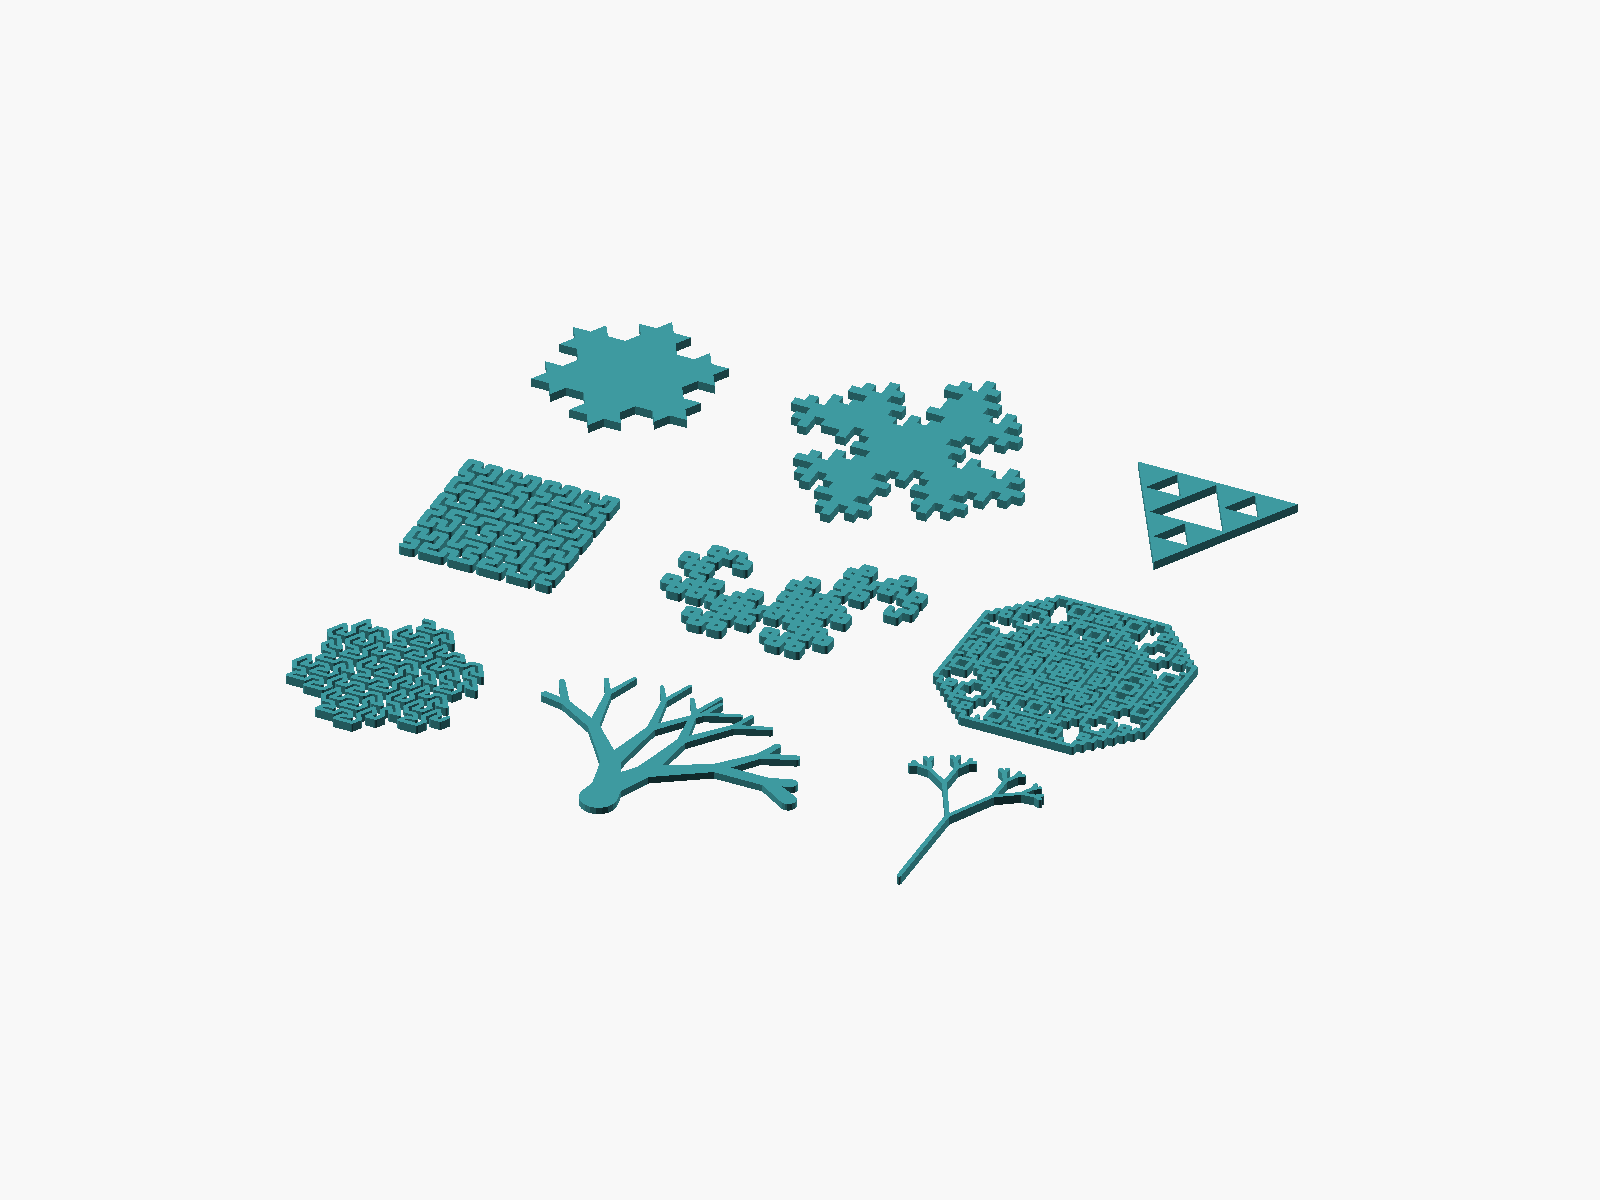
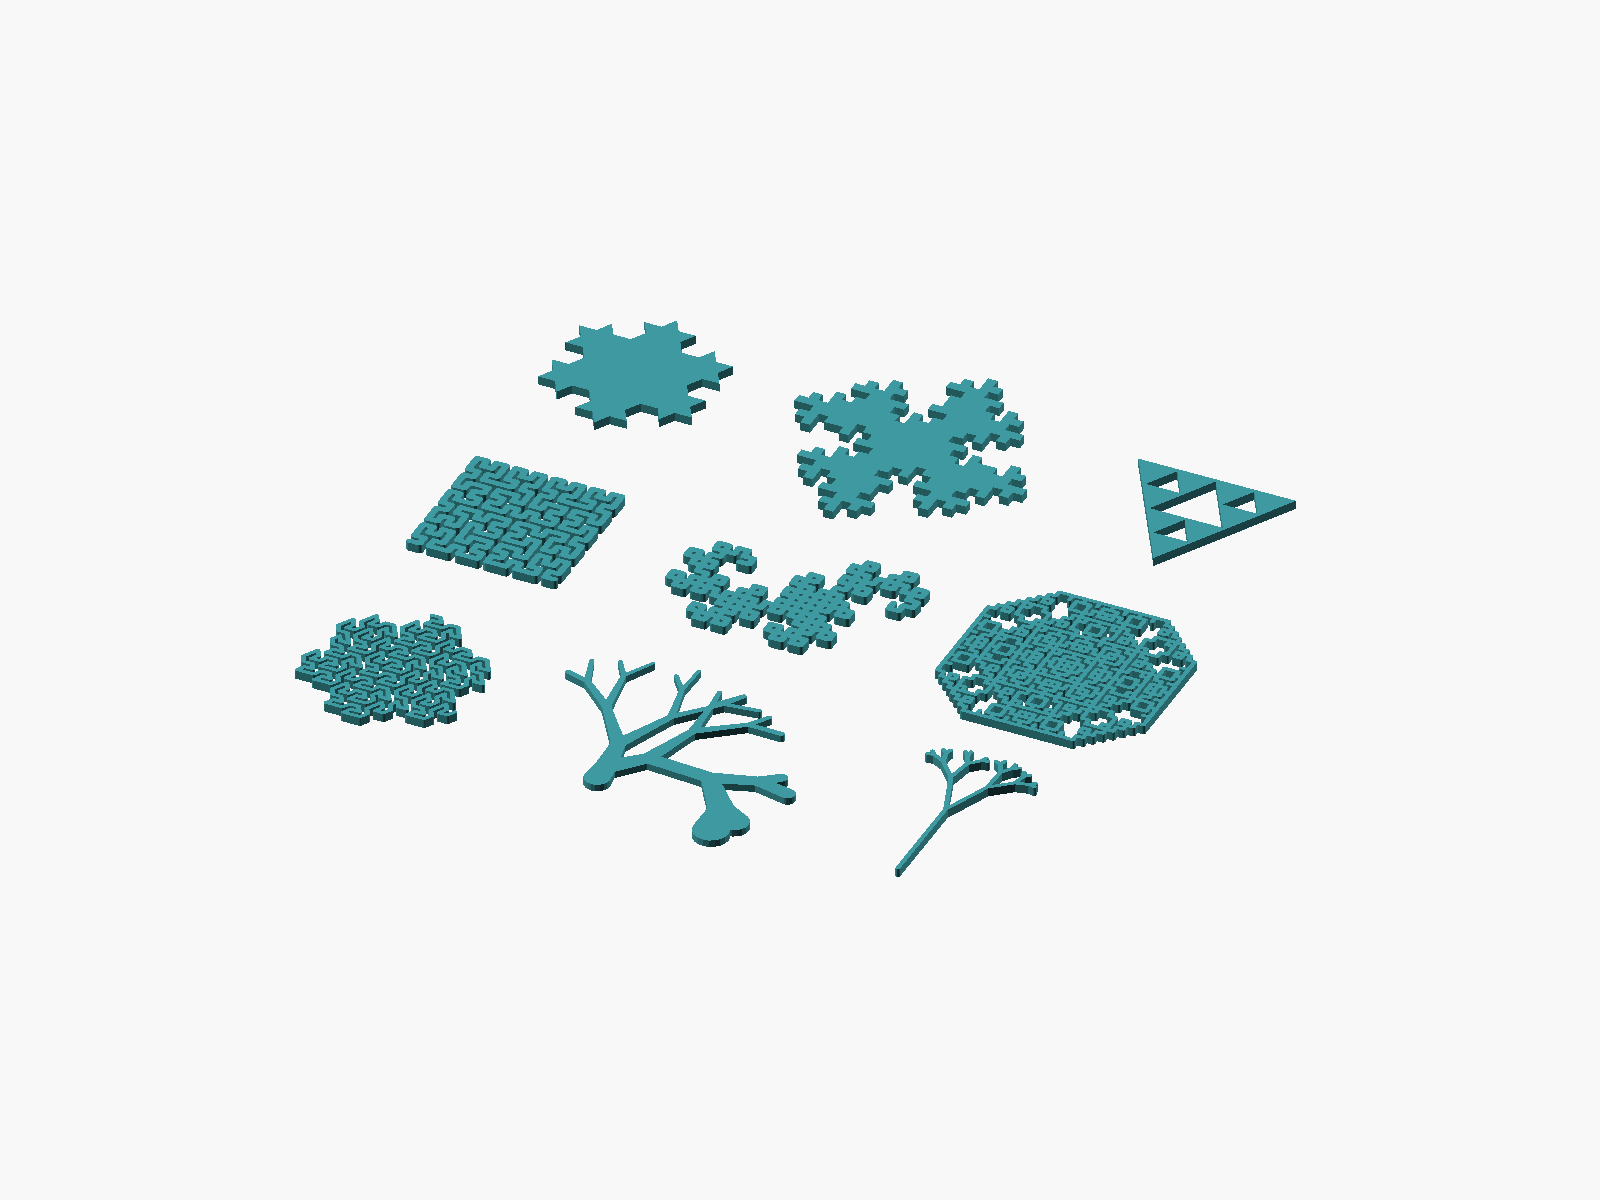
Some randomness!

diff --git a/LogoSC-LSystems-Guide.md b/LogoSC-LSystems-Guide.md
@@ -19,6 +19,7 @@ repetition, an OpenSCAD loop or ordinary LogoSC command list is usually clearer.
 - [Expansion and interpretation](#expansion-and-interpretation)
 - [Worked expansion: one Koch level](#worked-expansion-one-koch-level)
 - [Closed and open output](#closed-and-open-output)
+- [Seeded angle variation](#seeded-angle-variation)
 - [Performance](#performance)
 - [Scope boundary](#scope-boundary)
 
@@ -103,6 +104,9 @@ mean repeated forward steps, and repeated signs mean repeated turns.
 | `Gosper` | `F`; `F -> F-G--G+F++FF+G-`; `G -> +F-GG--G-F++F+G`; `turn = 60°` | A hexagonal space-filling curve with two mutually recursive drawing symbols and strong planar coverage. |
 | `Plant` | `X`; `X -> F[++FX][---FGX]`; `F -> FF`; `turn = 10°` | An asymmetric recursive Y tree demonstrating saved turtle states, deterministic taper, and print-oriented length compensation. |
 | `Canopy` | `X`; `X -> F[+X][-X]`; `F -> FF`; `turn = 28°` | A symmetric binary tree that isolates classic branching behavior and contrasts with the asymmetric Plant. |
+
+The listed turn is the preset's base angle. The example renderer can optionally add seeded
+variation to that base angle as described in [Seeded angle variation](#seeded-angle-variation).
 
 The gallery orders these rows as closed regions, space-filling and folding curves, then branching
 systems. Every open example is centered from its actual generated stroke bounds rather than from
@@ -266,6 +270,43 @@ lengths at branch depths zero and one—the original trunk and first Y arms. Thi
 their geometry; the 10-times trunk width and the rest of the continuous width taper are not
 scaled down. It also applies a `0.7` overall movement-length factor, reducing both planar
 dimensions by 30 percent without scaling any stroke widths.
+
+## Seeded angle variation
+
+`LogoSC-LSystems-Examples.scad` can vary individual turn magnitudes while keeping the result
+repeatable. For a base turn of 90 degrees and a variation of 10 degrees, every `+` uses a seeded
+value from positive 80 through 100 degrees, and every `-` uses the corresponding negative range.
+Each turn receives its own value, so two `+` symbols do not necessarily turn by the same amount.
+
+The Customizer controls are:
+
+| Control | Default | Meaning |
+|---|---:|---|
+| `LSystemAngleVariationScope` | `Branching Only` | `Off`, only `Plant` and `Canopy`, or `All Open Curves`. |
+| `LSystemAngleVariation` | `10` | Maximum plus-or-minus variation in degrees. Zero also disables variation. |
+| `LSystemRandomSeed` | `1` | Reproduces the same per-turn values; changing it produces another deterministic variant. |
+
+The default gives Plant and Canopy organic variation while leaving Hilbert, Dragon, Levy C, and
+Gosper exact. Select `All Open Curves` to experiment with those other open examples. Closed
+examples remain exact even in that mode because independently perturbed turns can prevent their
+last point from meeting their first point, invalidate a filled polygon, or defeat Sierpinski's
+deliberate printable overlap.
+
+This feature randomizes interpretation, not rewriting: the axiom, rules, expanded symbols, and
+segment count remain deterministic. Only the angle used when interpreting each `+` or `-` varies.
+For useful results, keep the variation smaller than the preset's base turn angle.
+
+Length variation would use the same general idea: multiply each forward step by a seeded factor,
+such as a value from `0.9` through `1.1` for plus-or-minus 10 percent. It is intentionally deferred
+for now. Independent step-length changes can distort closed endpoints, weaken intended overlaps,
+open gaps between features, and make minimum printable widths or clearances harder to predict.
+In a closed grammar, every substituted section is designed to have a precise net displacement and
+heading. Randomizing its individual segment lengths changes that displacement, so the next
+section will probably not begin where expected and the final endpoint may miss the starting point.
+Angle variation creates the same closure risk. A future closure-safe system would need correlated
+variation that perturbs a section's interior while constraining or solving its final endpoint and
+heading. For open branching models, branch-aware correlated length variation may eventually be
+more useful than unrelated jitter on every `F`.
 
 ## Performance
 

diff --git a/CHANGELOG.md b/CHANGELOG.md
@@ -25,6 +25,10 @@
 
 ### Added
 
+- Added seeded per-turn angle variation to the L-system examples, defaulting to plus-or-minus 10
+  degrees for Plant and Canopy, with Customizer scopes for Off, Branching Only, or All Open Curves.
+- Documented reproducible angle jitter, why closed examples remain exact, and how future seeded
+  length variation would affect geometry and printability.
 - Added an OpenSCAD-rendered image of the nine-model L-system gallery and embedded it in the
   public L-systems guide.
 - Expanded the L-systems guide with an annotated Quick Start constructor, explicit preset-name
